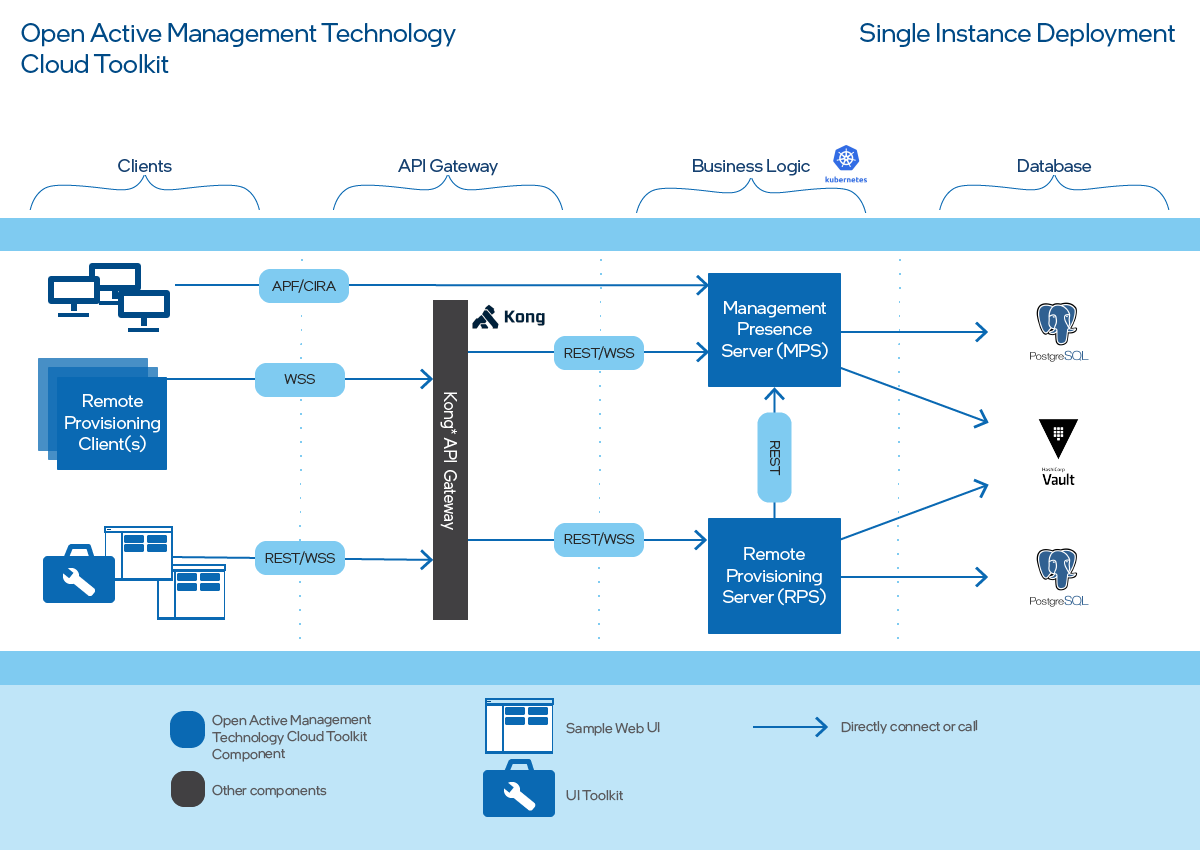
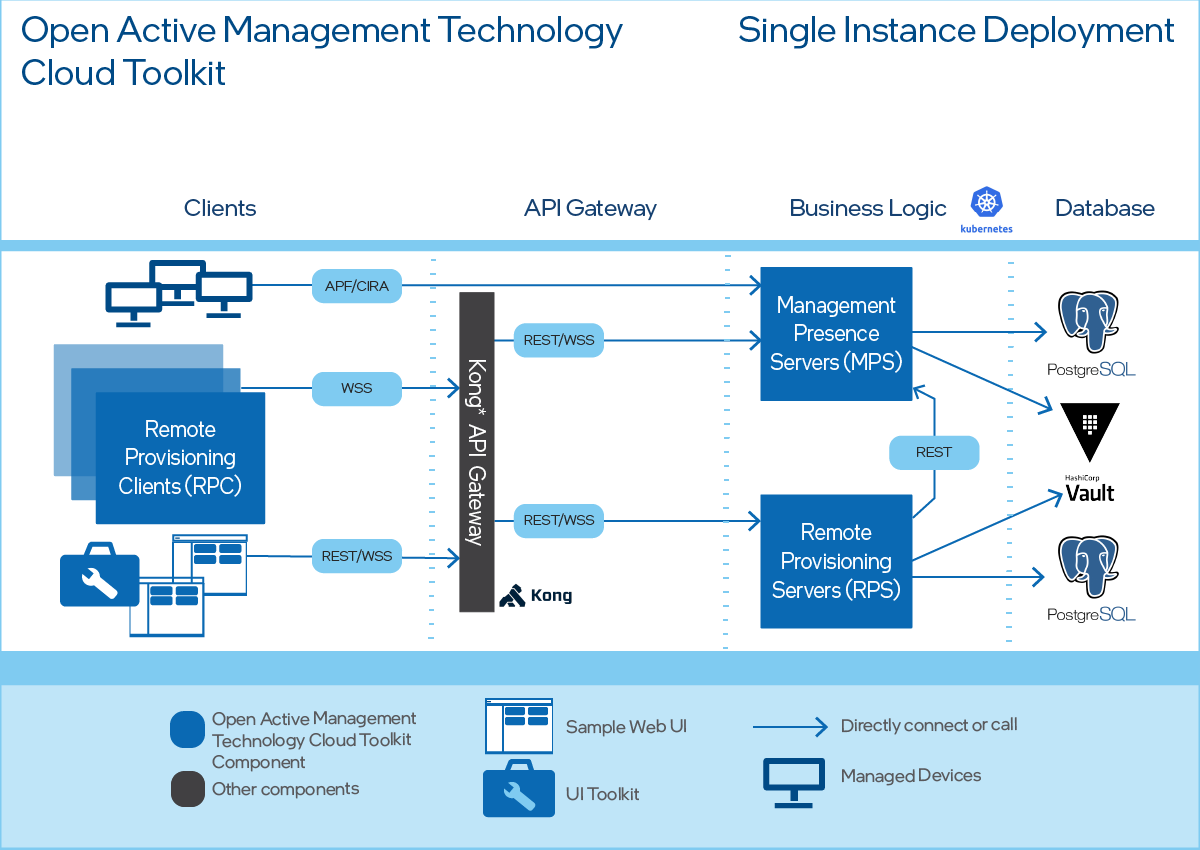
docs: first of several correcteions to the scaling instructions

diff --git a/docs/Kubernetes/kubernetes.md b/docs/Kubernetes/kubernetes.md
@@ -1,26 +1,37 @@
 --8<-- "References/abbreviations.md"
 ### Introduction
+This guide explains how to deploy the Open AMT Cloud Toolkit microservices to support a greater number of managed devices. This deployment uses: 
+
+* Kong* API Gateway
+* Kubernetes on Microsoft Azure*
+* PostgreSQL*
+* HashiCorp Vault*
+* Redis Protocol*
+* Consul*
+
 !!! important
-    Not for production use!!
+    NOT FOR PRODUCTION USE.
+
+### High-level Design
+
+[![Scaling architecture](../assets/images/HighLevelArchitectureScaling.png)](../assets/images/HighLevelArchitectureScaling.png)
+**Figure 1: MPS Scaling Architecture**
+
+Figure 1 presents the high-level architecture and flow of MPS scaling mode. 
+
+Note the various APIs and protocols used to establish and secure connectivity: 
     
-This guide explains how to deploy the Open AMT Cloud Toolkit services in Microsoft Azure*.
-Scaling functionality in MPS enables Open AMT Cloud Toolkit to support a greater number of managed devices. For this deployment, kubernetes runs in Microsoft Azure* along with redis and consul. Redis is used to sync the Web Server sessions between Web Server instances. Consul is used to communicate device connections between the Web Server and MPS server.
-
-### High level Design
-
-####Figure 1: MPS Scaling Architecture
-[![Scaling architechure](../assets/images/ScallingHighLevel.png)](../assets/images/ScallingHighLevel.png)
-Figure 1 presents the high-level architecture of MPS scaling mode. Per the figure, starting at the bottom:
-    
-1. Devices connect to an available MPS Server through the load balancer.
-1. The REST API requests are routed to an available Web Server, a component of MPS running in scale mode, through a load balancer.
-1. The Web Server determines which MPS Server to route the traffic to based on which MPS Server the device is connected to and sends that traffic through the MPS Proxy connection. 
-1. The MPS Server sends the traffic to the corresponding device.
-
+* Managed devices use CIRA to connect and call home to instances of the MPS in the cloud. 
+* RPCs connect to an available instance of the MPS Server with WSS calls. These calls are funneled through Kong* API Gateway, which supports a variety of APIs. Kong manages load balancing, logging, authentication and more. 
+* The Kong* API Gateway handles requests from client apps, such as the Sample Web UI included in Open AMT Cloud Toolkit, sending them along to an available RPS.
+* The MPS Router chooses an available instance of the MPS.
+* The RPS microservices communicate with MPS microservices through the REST API. 
+* Vault is a tool used to secure, store, and tightly control access to secrets. Storing passwords used by MPS in Vault will increase the security of these assets.
+  
 ### MPS Configuration
-To support running the service in a distributed environment, some configuration settings were added to MPS. These settings can be modified in `open-amt-cloud-toolkit\scripts\kubernetes\serversChart\values.yaml`. All the following settings have already been preset in the values.yaml file.
+To support running the service in a distributed environment, some configuration settings were added to MPS. These settings can be modified in `open-amt-cloud-toolkit\scripts\kubernetes\serversChart\values.yaml`. Table 1 details the settings involved in the scaling deployment.
 
-####Table 1: MPS configuration settings
+
 | Component:        | Setting:           | Notes:  |
 | ------------- |-------------| -----|
 | consul     | distributed_kv_name  | name of key/value store used. |
@@ -32,48 +43,51 @@ To support running the service in a distributed environment, some configuration 
 ||redis_password|password used to authenticate to redis|
 |general|web_proxy_port|port the web server used to communicate to MPS.|
 ||network_adaptor|network identifier used when device connects to MPS. Can be either an adaptor name such as `eth0` or starting ip address such as `192.168`.|
-||startup_mode|microservice run mode. `standalone` when running in non scaling mode or run components in `mps` and `web` for distributated mode.|
+||startup_mode|microservice run mode. `standalone` when running in non scaling mode or run components in `mps` and `web` for distributed mode.|
+
+**Table 1: MPS Configuration Settings**
 
 ## Get the Toolkit
 
 **To clone the repositories:**
 
-1. Open a Command Prompt or Terminal and navigate to a directory of your choice for development:
+Open a Command Prompt or Terminal and navigate to a directory of your choice for development:
 
 ``` bash
 git clone --recursive https://github.com/open-amt-cloud-toolkit/open-amt-cloud-toolkit
 ```
 
-## Building the docker images
-Please build and push the following images from the following open-amt-cloud-toolkit repositories MPS, RPS, and sample-web-ui into a public repository. Please update "docker.io/vprodemo" to the desired public repository and "mps" to the corresponding repository name. 
+## Building the Docker Images
+1. Build and push the following images from the following open-amt-cloud-toolkit repositories MPS, RPS, and sample-web-ui into a public repository.
 ```
 docker build . -t docker.io/vprodemo/mps:latest
 docker push docker.io/vprodemo/mps:latest
 ```
+2. Update "docker.io/vprodemo" to the desired public repository and "mps" to the corresponding repository name. 
 
-### Prerequisite
-**Install required software in Windows environment(in admin mode):**
+### Prerequisites
+**Install required software in Windows environment (in admin mode):**
 
-1. Run `\open-amt-cloud-toolkit\scripts\kubernetes\installchoco.bat` to install the choco package manager
-1. Close and reopen command window
-1. Run `\open-amt-cloud-toolkit\scripts\kubernetes\installpackages.bat` to install the required packages
+1. Run `\open-amt-cloud-toolkit\scripts\kubernetes\installchoco.bat` to install the choco package manager.
+2. Close and reopen the command window.
+3. Run `\open-amt-cloud-toolkit\scripts\kubernetes\installpackages.bat` to install the required packages.
 
 ### Steps to Deploy
 
 1. Edit entries in the launch.bat file to fit deployment.
+   
+2.  In `open-amt-cloud-toolkit\scripts\kubernetes\serversChart\values.yaml`, update the stack environment variables in `images` with desired images for launch.
 
-1. Update section `images` in stack environmental variables in `open-amt-cloud-toolkit\scripts\kubernetes\serversChart\values.yaml` that correspond with desired images for launch.
+3. If containers are in a private container registry, create a base64 auth token and place it in `open-amt-cloud-toolkit\scripts\kubernetes\config.json`
 
-1. If containers are in a private container registry, a base64 auth token needs to be created and placed in `open-amt-cloud-toolkit\scripts\kubernetes\config.json`
+4. Launch with command `launch.bat [resourceGroupName]`. Replace the resourceGroupName with the desired resource group name for the deployment.
 
-1. Launch with command `launch.bat [resourceGroupName]` [replace the resourceGroupName with the desired resource group name for the deployment]
+5. Use the settings in the `\open-amt-cloud-toolkit\scripts\kubernetes\.env` file to update the values in the `\open-amt-cloud-toolkit\scripts\kubernetes\serversChart\values.yaml` file.
 
-1. Use the settings in the `\open-amt-cloud-toolkit\scripts\kubernetes\.env` file to update the values in `\open-amt-cloud-toolkit\scripts\kubernetes\serversChart\values.yaml`
+6. From `\open-amt-cloud-toolkit\scripts\kubernetes` run `helm install openamtcloudstack ./serversChart` to deploy the services into kubernetes.
 
-1. From `\open-amt-cloud-toolkit\scripts\kubernetes` run `helm install openamtcloudstack ./serversChart` to deploy the services into kubernetes.
-
-1. After deployment is complete use the command `kubectl get pods` to verify all pods have been launched successfully.
+7. After deployment is complete, use the command `kubectl get pods` to verify all pods have been launched successfully.
 
 !!! note 
-    Please restore values.yaml to its prelaunch condition before subsiquesnt deployments
+    Please restore values.yaml to its prelaunch condition before subsequent deployments.
 
